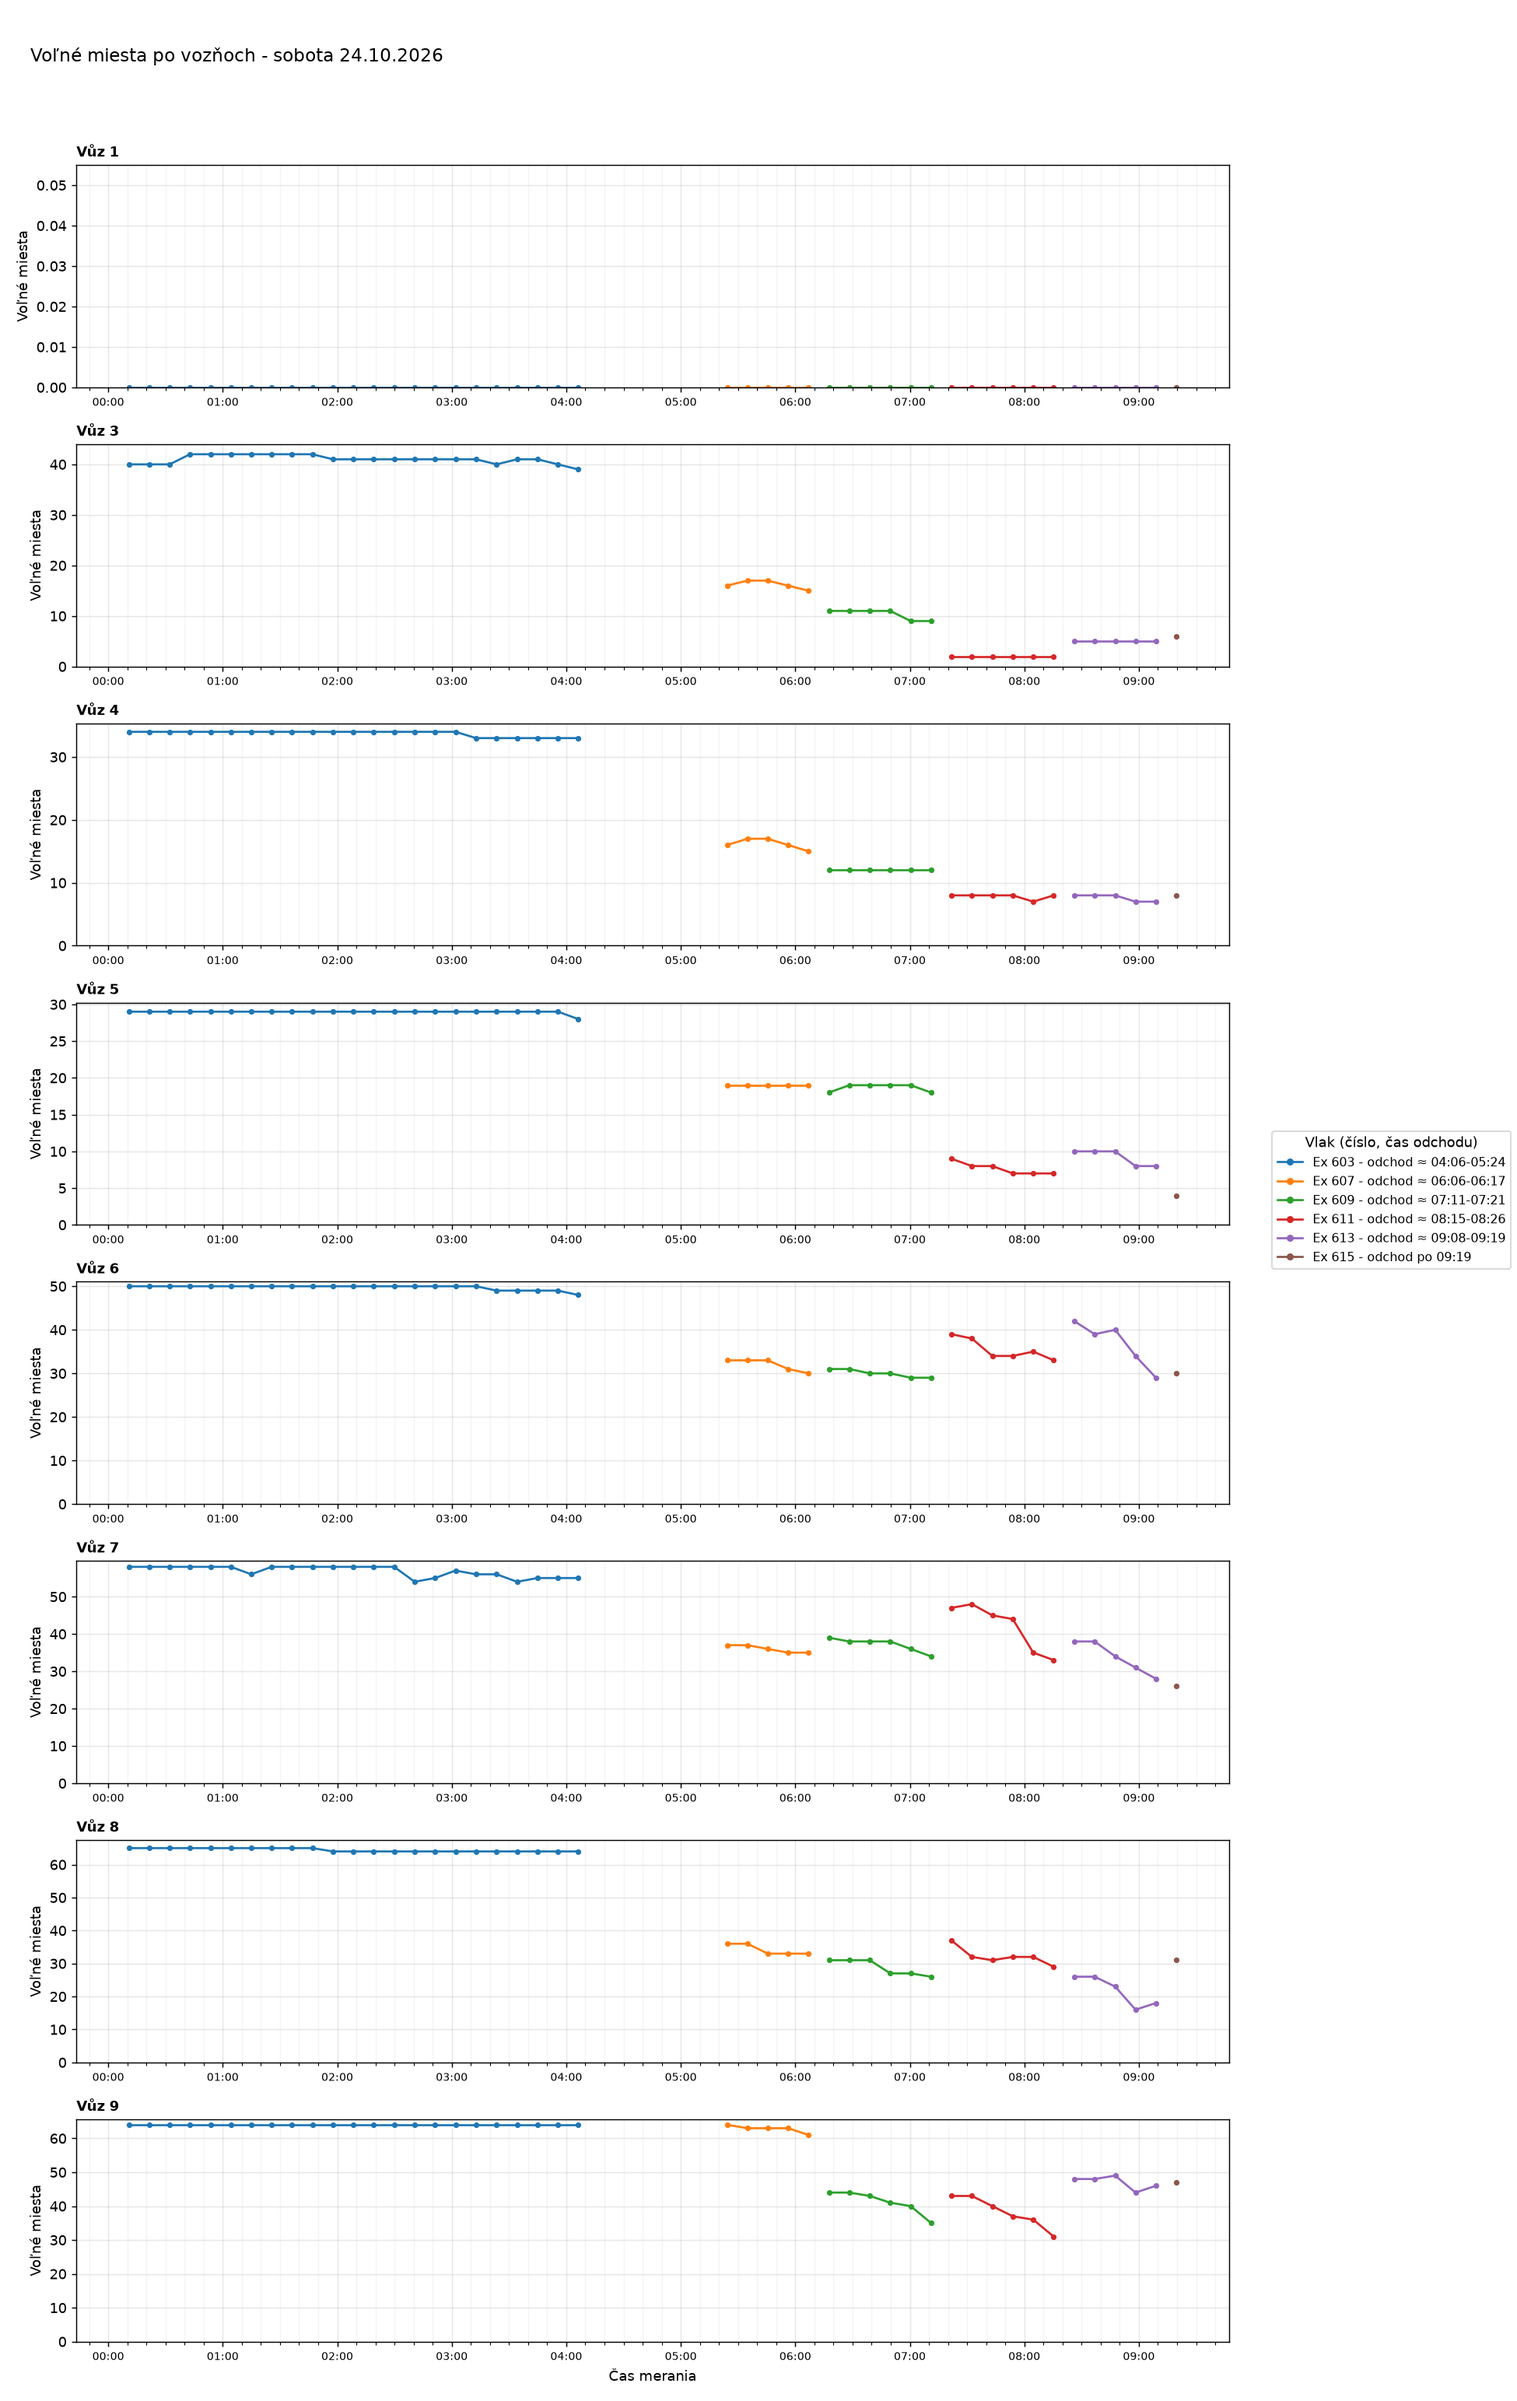
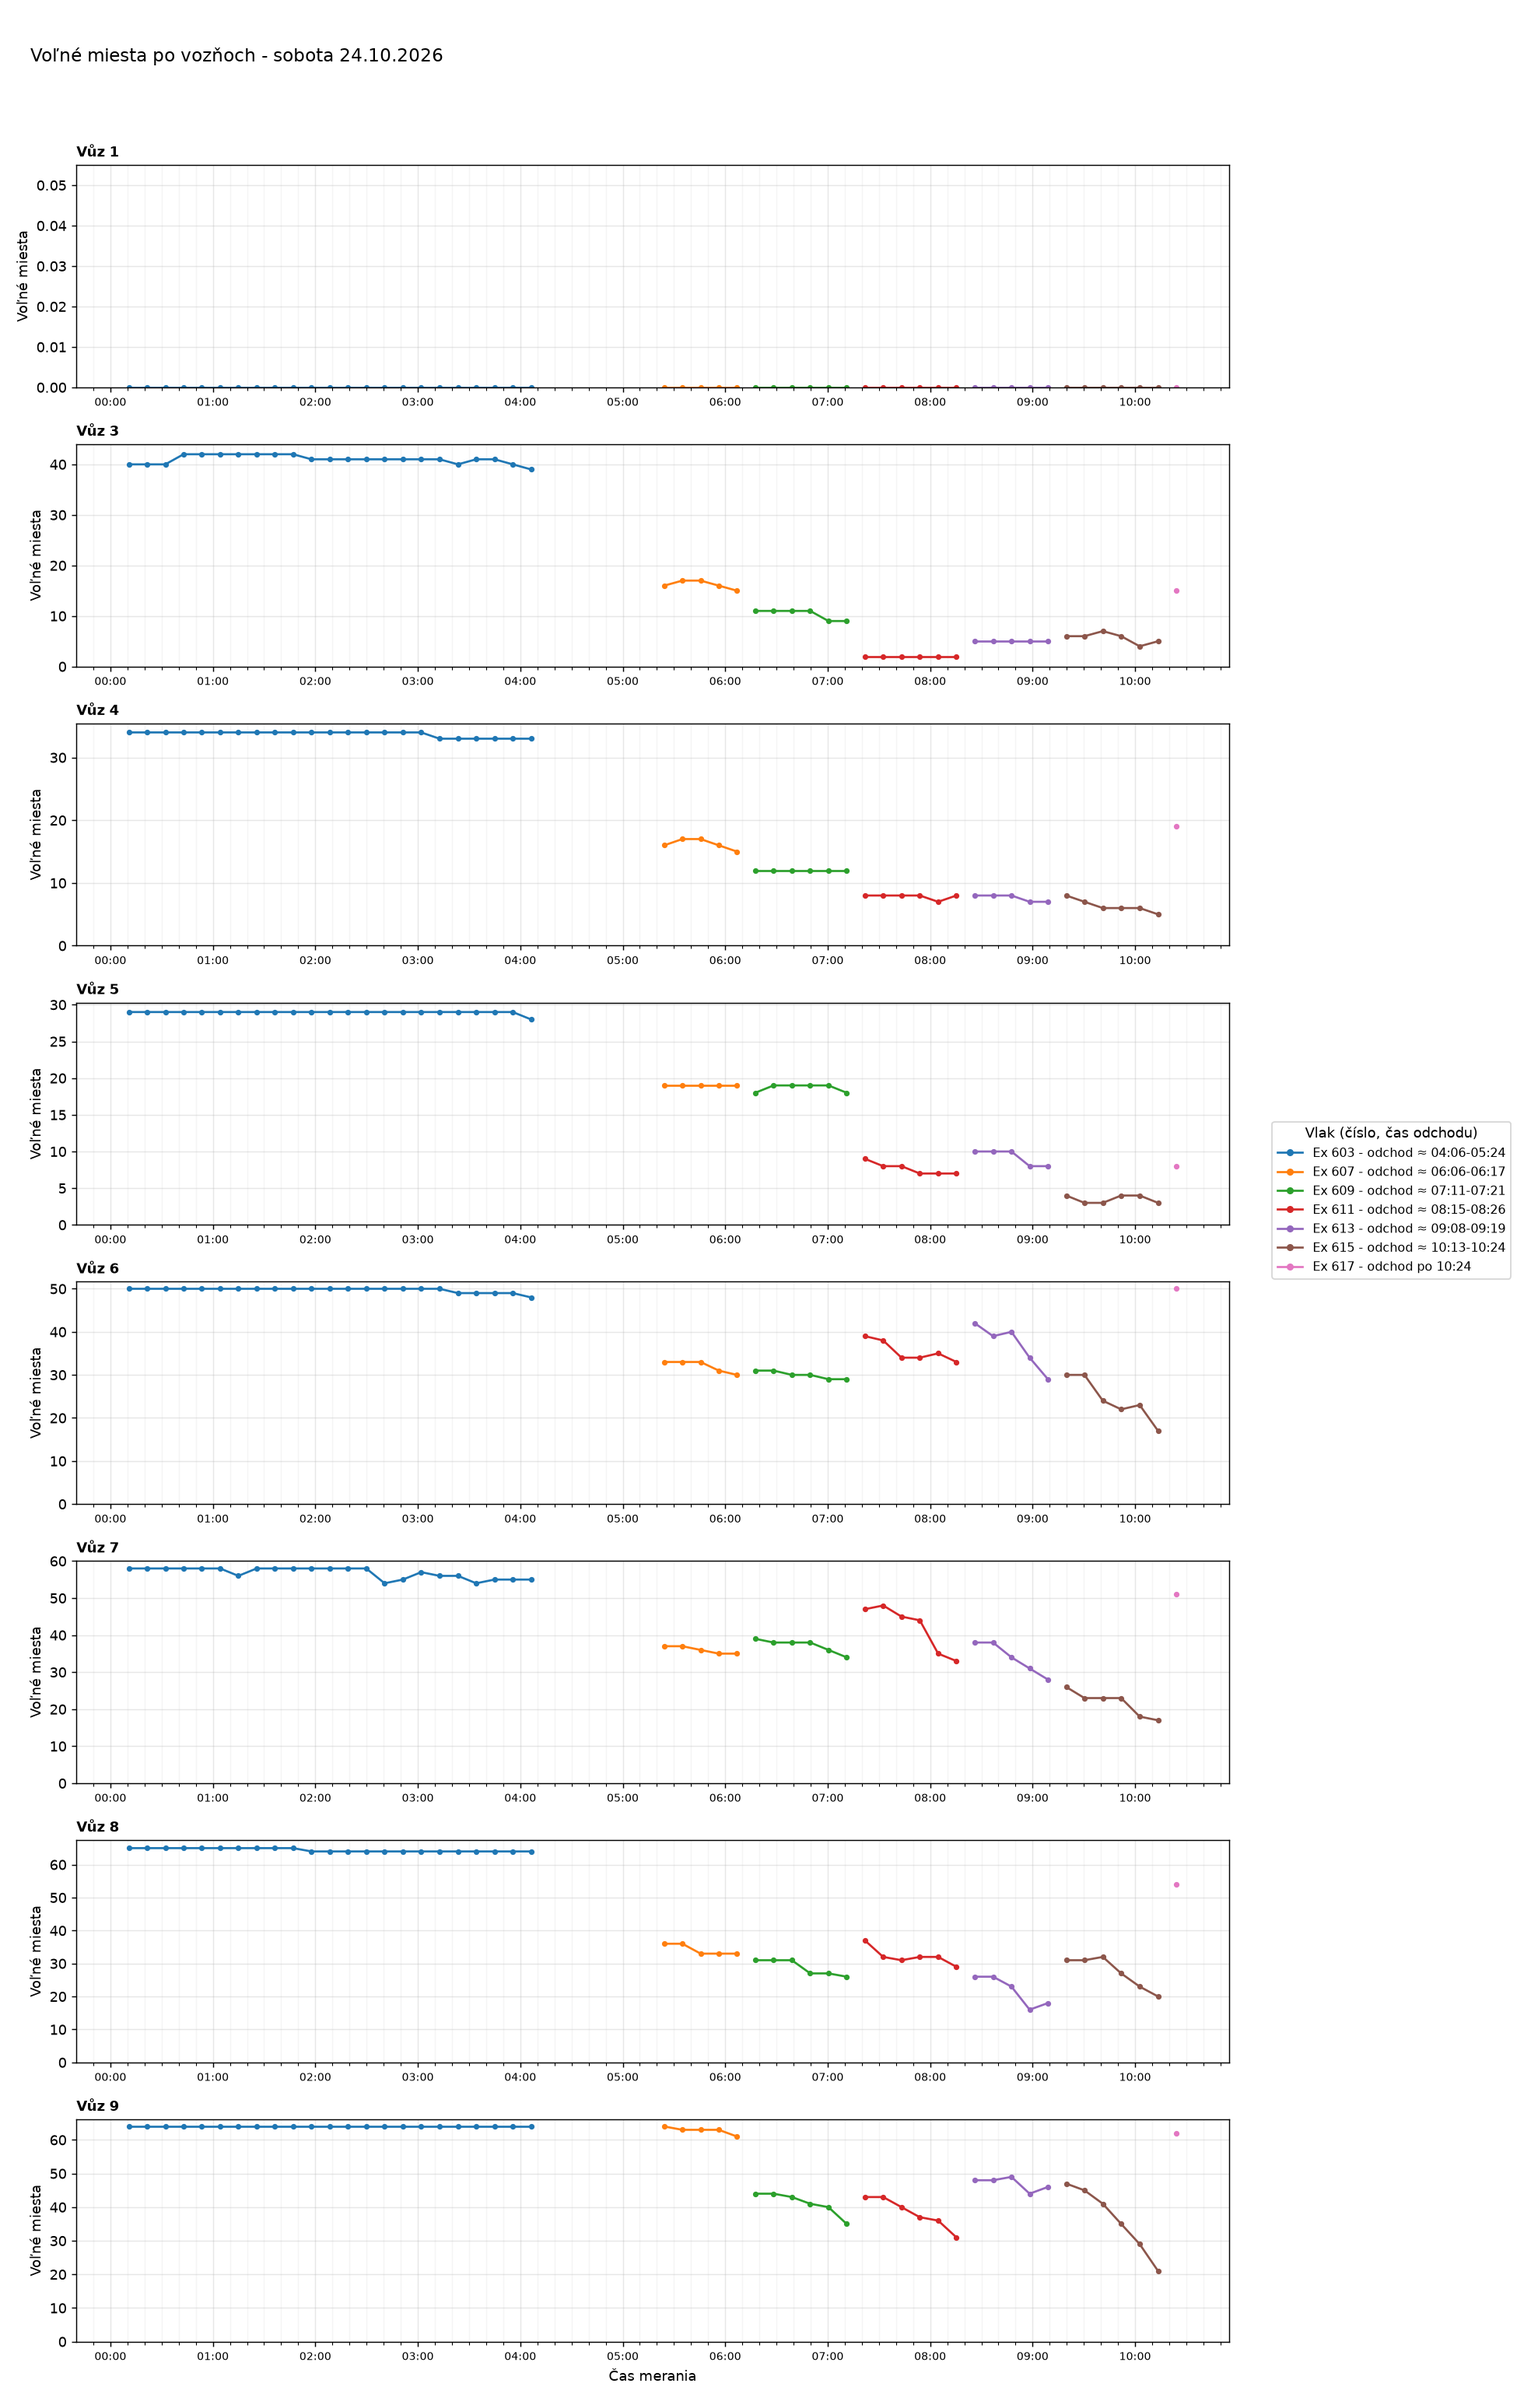
Aktualizácia grafov 2026-10-24 10:27

diff --git a/index.html b/index.html
@@ -35,7 +35,7 @@ h2.oddiel{margin:36px 0 0;font-size:1.4rem}
 <body>
 <main>
 <h1>Voľné miesta vo vlakoch</h1>
-<p class="muted">Posledné meranie: 24.10.2026 09:19 ·
+<p class="muted">Posledné meranie: 24.10.2026 10:24 ·
 <a href="data/obsadenost_data.csv">stiahnuť dáta (CSV)</a></p>
 <nav class="nav"><a href="#suhrn">Súhrn</a><a href="#statistiky">Štatistiky</a><a href="#historia">História grafov</a></nav>
 
@@ -44,7 +44,7 @@ h2.oddiel{margin:36px 0 0;font-size:1.4rem}
 <div class="tablewrap"><table>
 <thead><tr><th>Deň</th><th>Meraní</th><th>Vlakov</th><th>Čas meraní</th></tr></thead>
 <tbody>
-<tr><td><a href="#d2026-10-24">sobota 24.10.2026</a></td><td>46</td><td>6</td><td>00:10-09:19</td></tr>
+<tr><td><a href="#d2026-10-24">sobota 24.10.2026</a></td><td>52</td><td>7</td><td>00:10-10:24</td></tr>
 <tr><td><a href="#d2026-10-23">piatok 23.10.2026</a></td><td>64</td><td>13</td><td>07:25-23:49</td></tr>
 <tr><td><a href="#d2026-10-22">štvrtok 22.10.2026</a></td><td>80</td><td>11</td><td>00:08-16:10</td></tr>
 <tr><td><a href="#d2026-10-21">streda 21.10.2026</a></td><td>96</td><td>15</td><td>00:10-23:58</td></tr>
